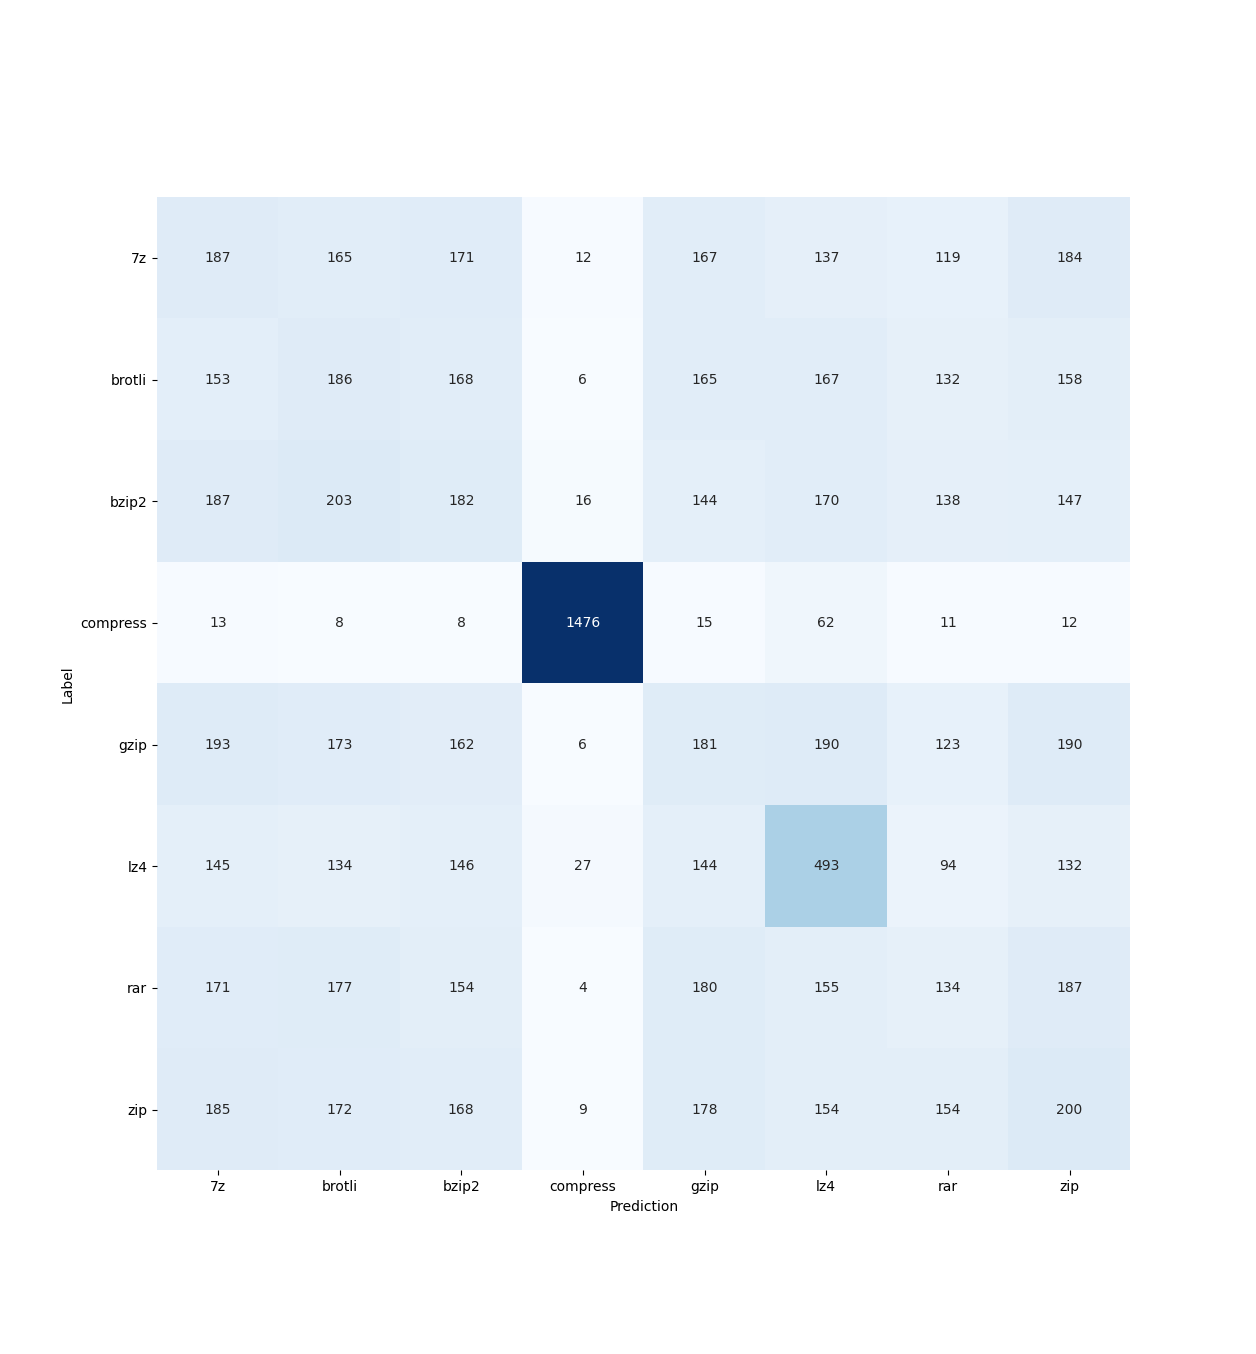
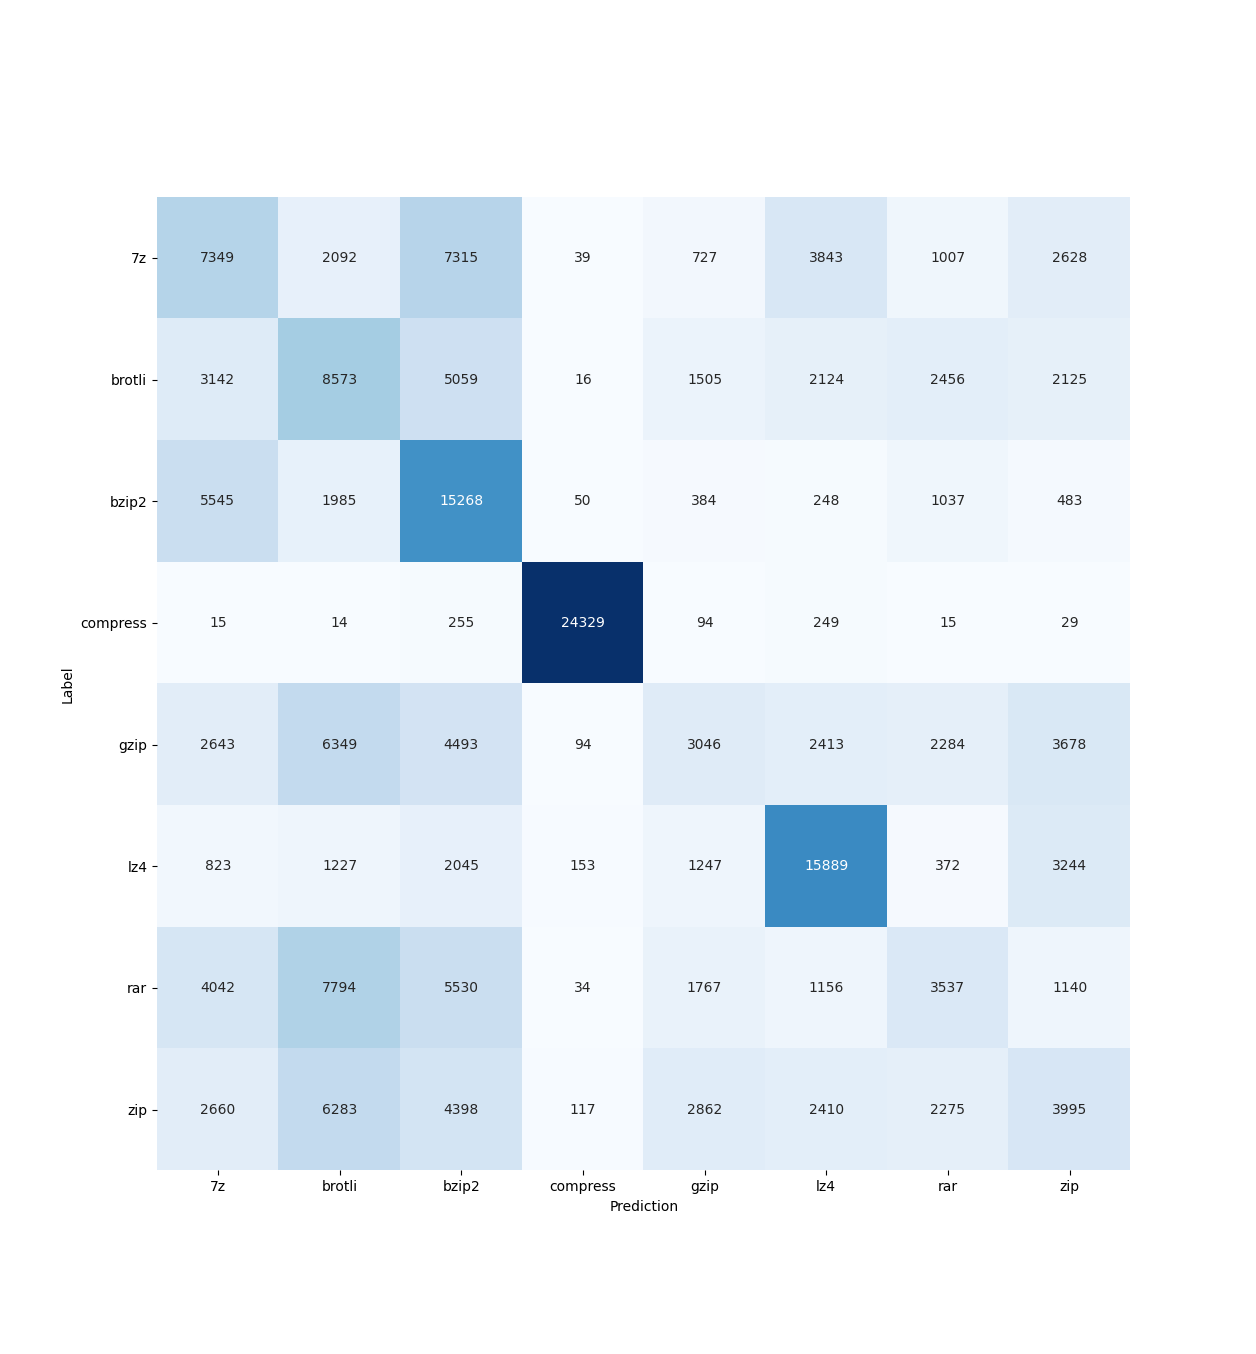
Update plots

diff --git a/README.md b/README.md
@@ -165,7 +165,7 @@ To evaluate the performance of the model, one can render a confusion matrix like
 python3 ./model/plot.py --type confusion-matrix --model ./data/models/my-model.h5 --strata ./data/evaluation-strata.csv
 ```
 
-An example plot from early development, trained on 50K samples for 60 epochs looks like this:
+An example plot, trained on 2M samples for 5 epochs looks like this:
 
 <p align="center">
   <img src="./samples/confusion-matrix.png">
